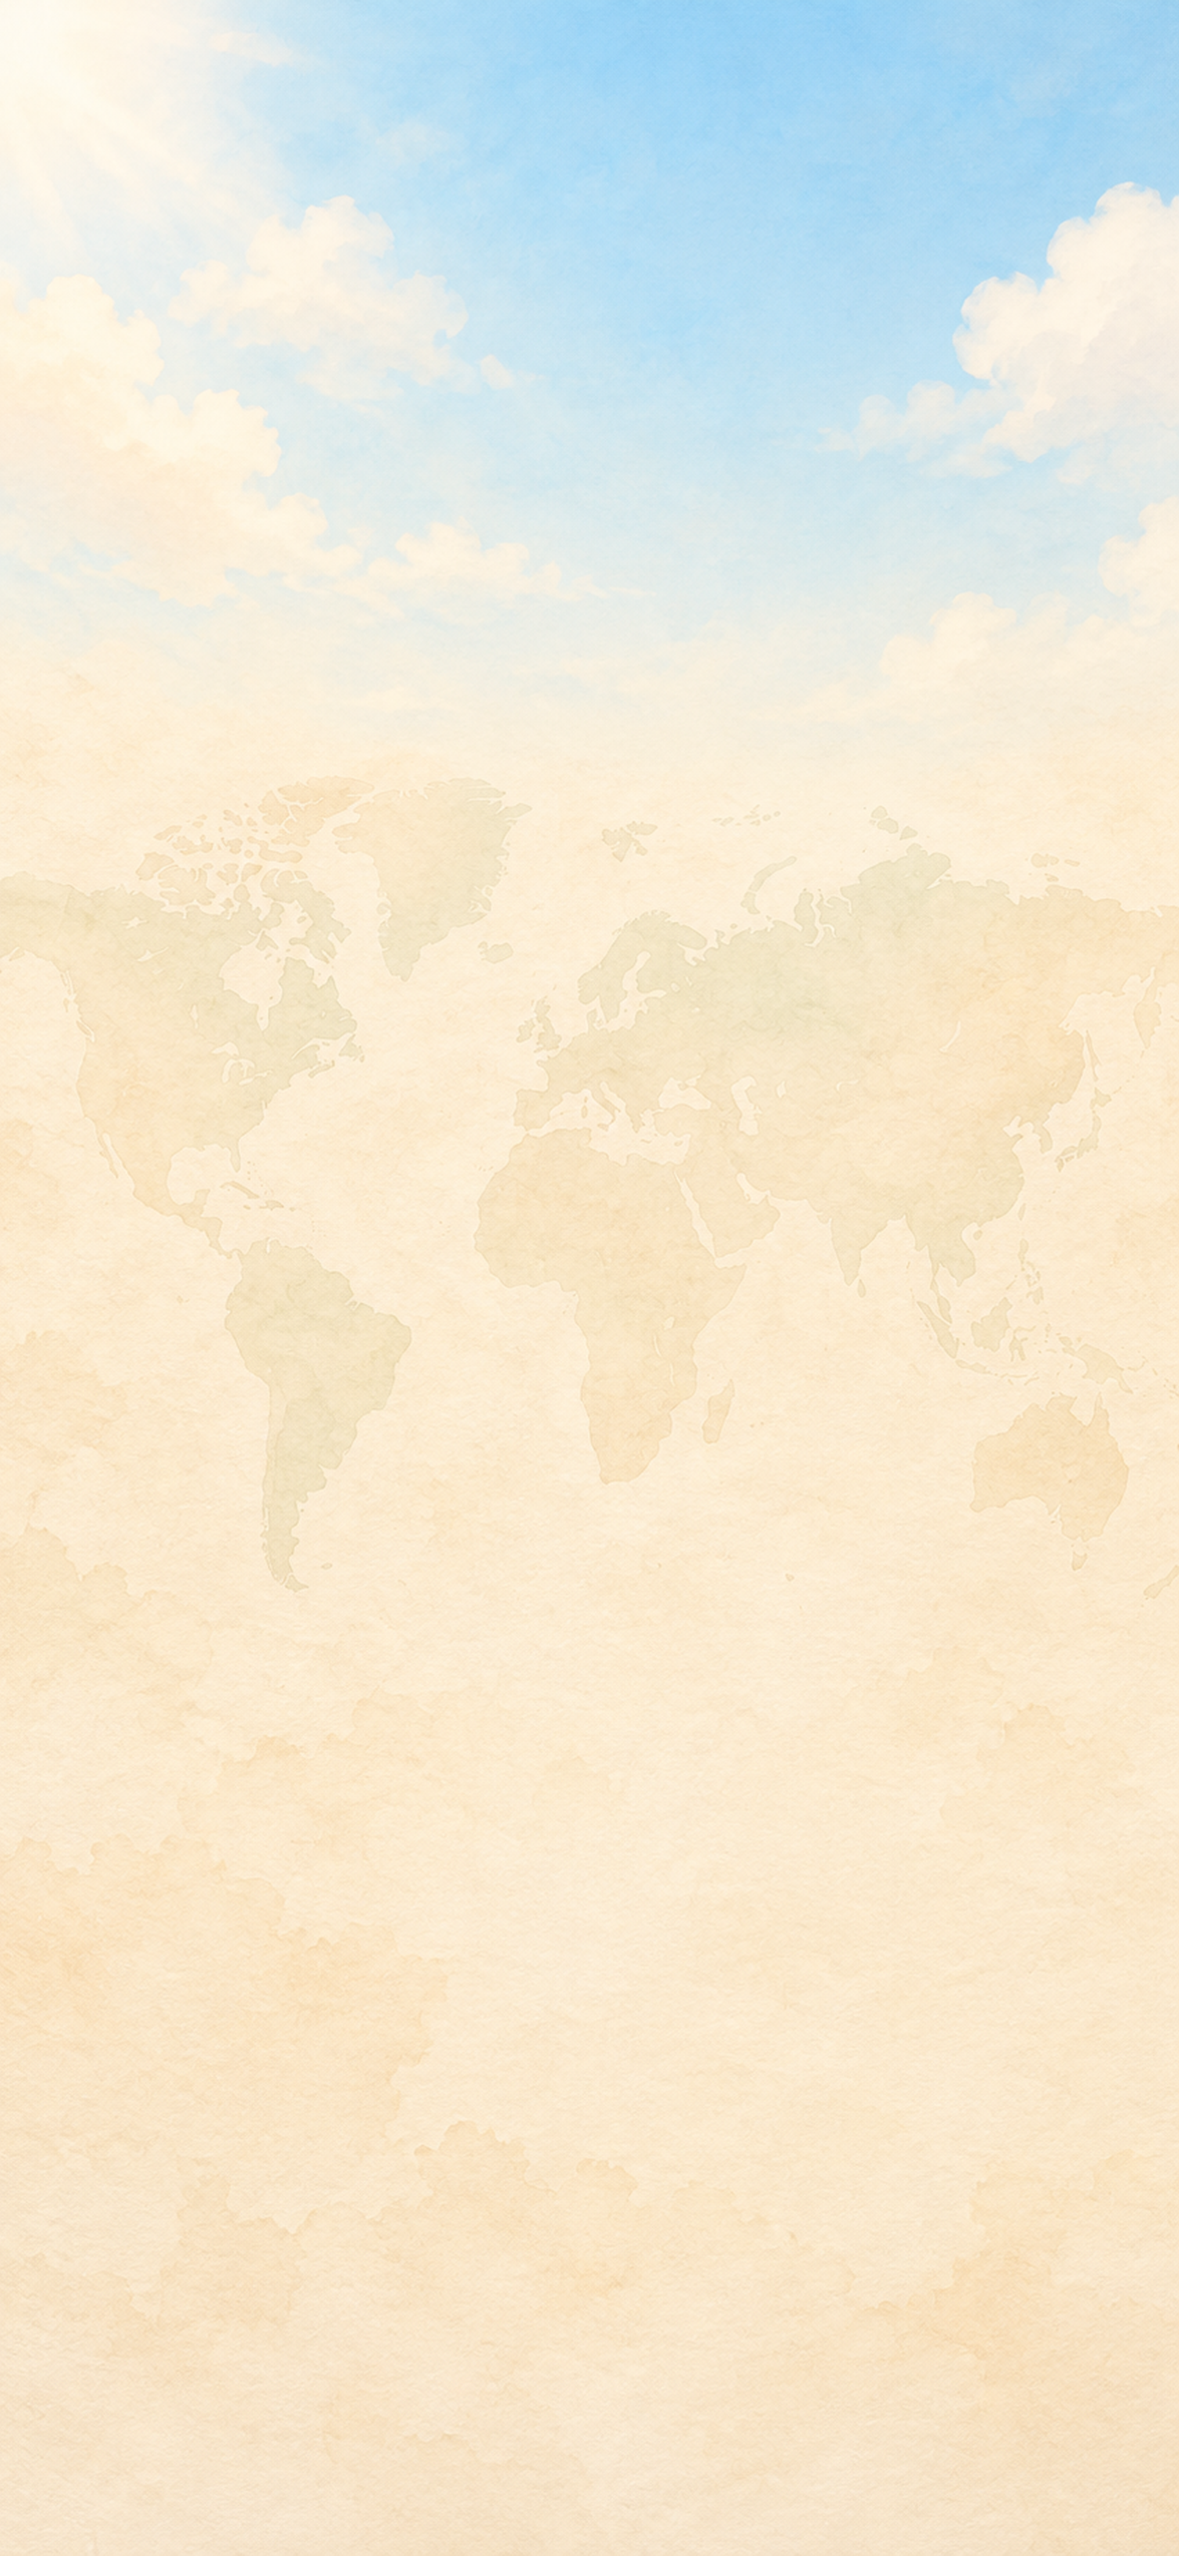
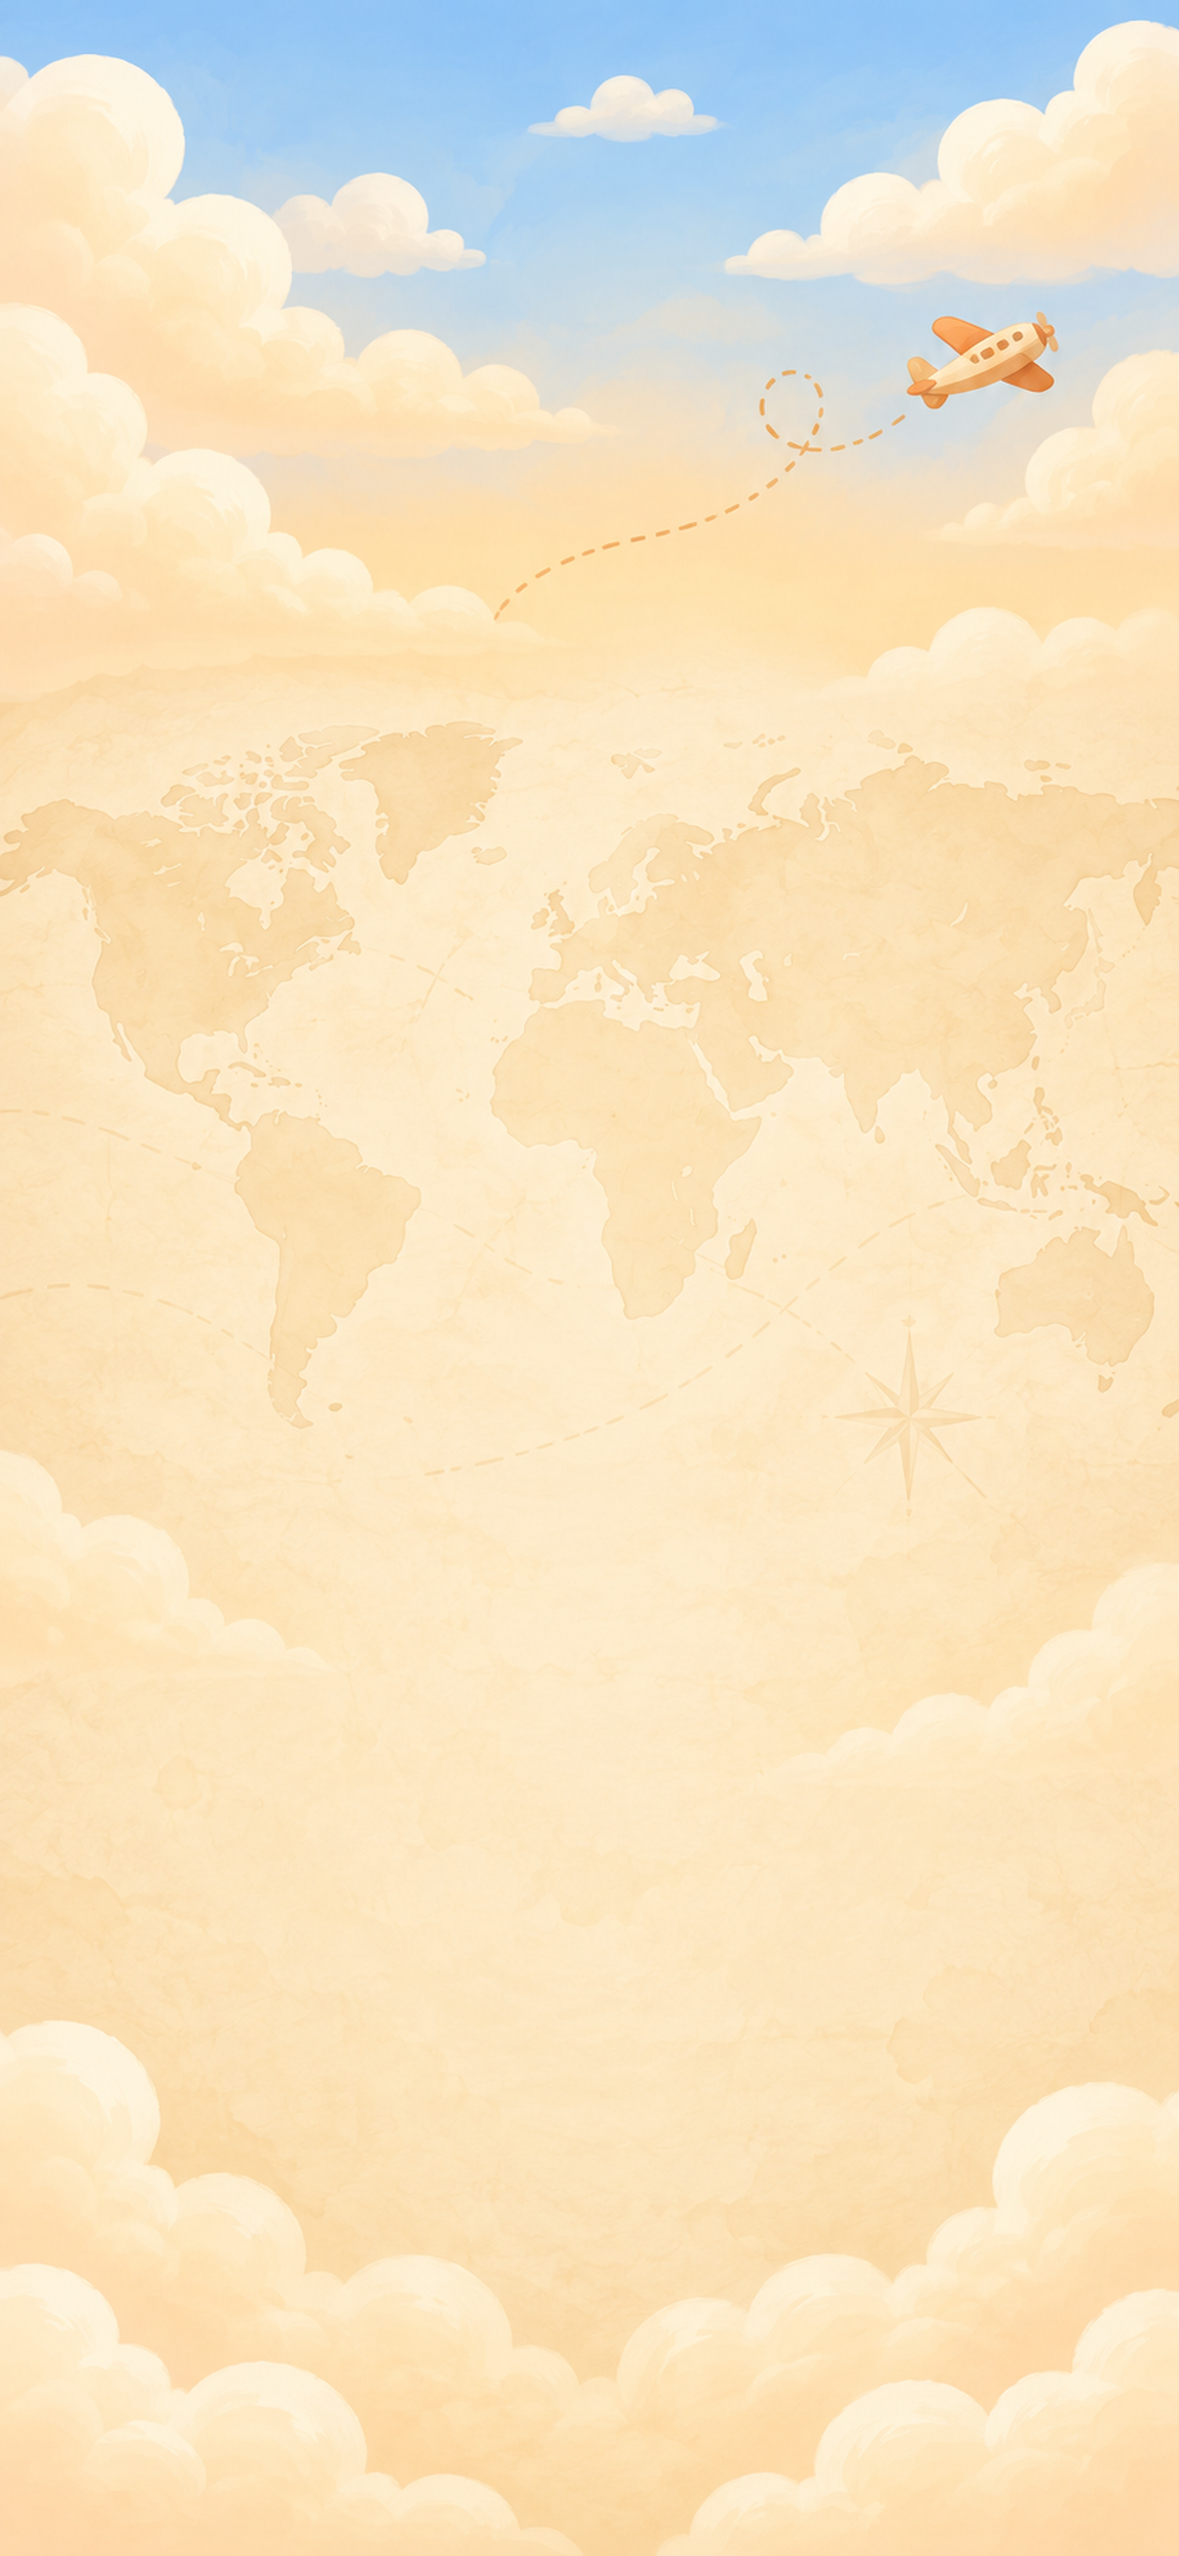
Illustrate collection and world screen backgrounds

diff --git a/assets/ui-records/provenance/prompts-bg.md b/assets/ui-records/provenance/prompts-bg.md
@@ -244,3 +244,19 @@ Source: C:\Users\User\.codex\generated_images\01a172b4-5ecf-71e2-be1c-70fd45f12b
 Prompt: Match image1 approved room-home style exactly: rounded soft detailed painted storybook mobile game illustration, warm cream beige muted greens pale orange, medium-scale painted decorative details, gentle gradients and highlights, never photoreal, no camera blur/bokeh, no lens flare, no strong dark shadows, no realistic microscopic texture. No cats, humans, animals, UI or logos. Full bleed opaque rectangle. Landscape1179x900. Mediterranean travel scenery: white and pale peach rounded hillside coastal town on right, turquoise sea with small white sailboat center, warm stone-paved terrace lower right35% empty and flat for traveler overlay, a few potted flowers at far edges. Left upper and middle half calm pale blue sky/sea for title overlay. A rounded wood direction sign on far right upper quadrant with FOUR clean readable boards labeled EXACTLY JAPAN, FRANCE, KENYA, KOREA, one word per board. No other text. Soft sunny picturebook atmosphere. Do NOT copy image2 photographic texture or its sign on left; use image2 subject only.
 
 Final: (1179, 900), opaque. SHA256: 1a0726fb6b2bbb2b8f319ae50937a488d507dbb35b1d275fec7b833264ac4af0
+
+## 2026-10-25 UI fixes: bg/screen-zukan.png
+
+Source: C:\Users\User\.codex\generated_images\01a172b4-5ecf-71e2-be1c-70fd45f12b5e\exec-f5de7a8b-6dbf-456e-a625-a8b7399280b8.png
+
+Prompt: Match image1 approved room-home style exactly: rounded soft detailed painted storybook mobile game illustration, warm cream beige muted greens pale orange, medium-scale painted decorative details, gentle gradients and highlights, never photoreal, no camera blur/bokeh, no lens flare, no strong dark shadows, no realistic microscopic texture. No cats, humans, animals, UI or logos. Full bleed opaque rectangle. Very tall portrait1179x2556 full-screen background for collection gallery. Pastel cozy study/bookshelves at upper and far side edges only. Rounded cream bookshelves, muted pastel blank books, a few plants. Center and bottom 70% almost plain ivory softly shaded, extremely low contrast for readable overlay cards. All shapes gently painted and legible rather than camera-blurred. Match approved home moderate painted details ONLY at peripheral shelves. No text.
+
+Final: (1179, 2556), opaque. SHA256: 0f37022bec492003d8db3582acd312634cff4d826c57d86ad1e8a1bb31aab50b
+
+## 2026-10-25 UI fixes: bg/screen-world.png
+
+Source: C:\Users\User\.codex\generated_images\01a172b4-5ecf-71e2-be1c-70fd45f12b5e\exec-1a5a0700-eb31-4cd9-bdfb-af227facd27c.png
+
+Prompt: Match image1 approved room-home style exactly: rounded soft detailed painted storybook mobile game illustration, warm cream beige muted greens pale orange, medium-scale painted decorative details, gentle gradients and highlights, never photoreal, no camera blur/bokeh, no lens flare, no strong dark shadows, no realistic microscopic texture. No cats, humans, animals, UI or logos. Full bleed opaque rectangle. Very tall portrait1179x2556 world screen background. Pale pastel sky and rounded cream clouds at top, gradually blending into old ivory world-map paper in middle and lower areas. A faint simplified world map, a tiny warm orange airplane and a delicate dotted curved flight route near upper right. Central and bottom card areas are very pale low contrast cream, calm. Gentle painted paper textures and rounded forms, not realistic clouds. NO labels, place names or any text.
+
+Final: (1179, 2556), opaque. SHA256: 8deaf1b4b3dd772813edb53cd342d7e9570046a1b04e3a7906db76f19a5200ce

diff --git a/assets/ui-records/README.md b/assets/ui-records/README.md
@@ -63,3 +63,6 @@ User requested more detail. Added painted leaf, textile, basket, rug and wood de
 
 ## UI fixes: priority 1 complete (2026-10-25)
 Approved room-home draft02 retained. Redrawn room-deai (1179x1400) and world-hero (1179x900), one generation each, opaque RGB. Sign words JAPAN / FRANCE / KENYA / KOREA checked. Empty character/text overlay areas checked. Comparison: previews/regen-compare.png. No application code changes.
+
+## UI fixes: priority 2 complete
+Redrawn screen-zukan and screen-world, each1179x2556 opaque PNG, one generation each. Painted shelves and sky/map/airplane, pale central and lower overlay areas. Comparison: previews/regen-screens.png.
